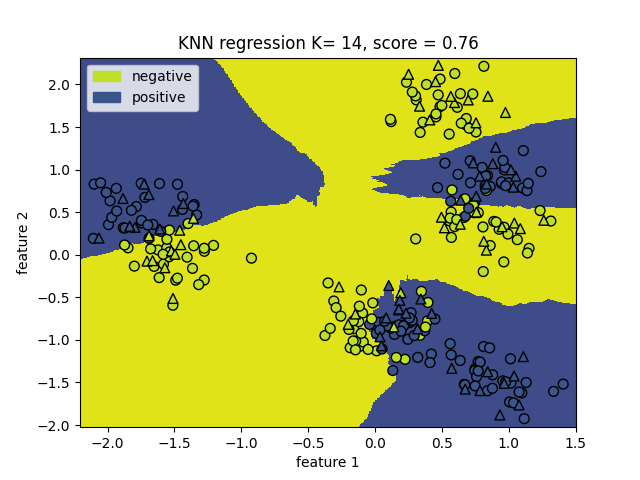
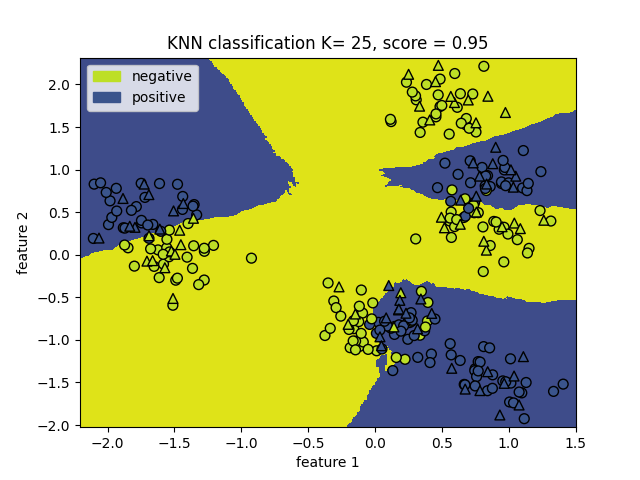
Виправив друге завдання

diff --git a/synthetic_sklearn_classifier.py b/synthetic_sklearn_classifier.py
@@ -4,7 +4,7 @@ from sklearn.datasets import make_blobs
 import matplotlib.pyplot as plt
 from sklearn.model_selection import train_test_split
 from matplotlib.colors import ListedColormap
-from sklearn.neighbors import KNeighborsRegressor
+from sklearn.neighbors import KNeighborsClassifier
 from sklearn.preprocessing import StandardScaler
 cmap_bold = ListedColormap(['blue','#FFFF00','black','green'])
 
@@ -27,19 +27,19 @@ best_score = 0
 n = 0
 
 for i in range(1, 226):
-    knn_reg = KNeighborsRegressor(n_neighbors=i).fit(X_train_scaled, y_train)
+    knn = KNeighborsClassifier(n_neighbors=i).fit(X_train_scaled, y_train)
     #print(i, knn_reg.score(X_test_scaled, y_test))
-    if knn_reg.score(X_test_scaled, y_test) > best_score:
-        best_score = knn_reg.score(X_test_scaled, y_test)
+    if knn.score(X_test_scaled, y_test) > best_score:
+        best_score = knn.score(X_test_scaled, y_test)
         n = i
 
 print ('The best k = {} , score = {}'.format(n, best_score))
 
-knn_reg = KNeighborsRegressor(n_neighbors=n).fit(X_train_scaled, y_train)
-score = knn_reg.score(X_test_scaled, y_test)
+knn = KNeighborsClassifier(n_neighbors=n).fit(X_train_scaled, y_train)
+score = knn.score(X_test_scaled, y_test)
 
-draw.boundary_plot(knn_reg, X_train_scaled, y_train, X_test=X_test_scaled, y_test=y_test,
-                   title='KNN regression K= {}, score = {:.2f}'.format(n, score))
+draw.boundary_plot(knn, X_train_scaled, y_train, X_test=X_test_scaled, y_test=y_test,
+                   title='KNN classification K= {}, score = {:.2f}'.format(n, score))
 
 
 #plt.figure()
